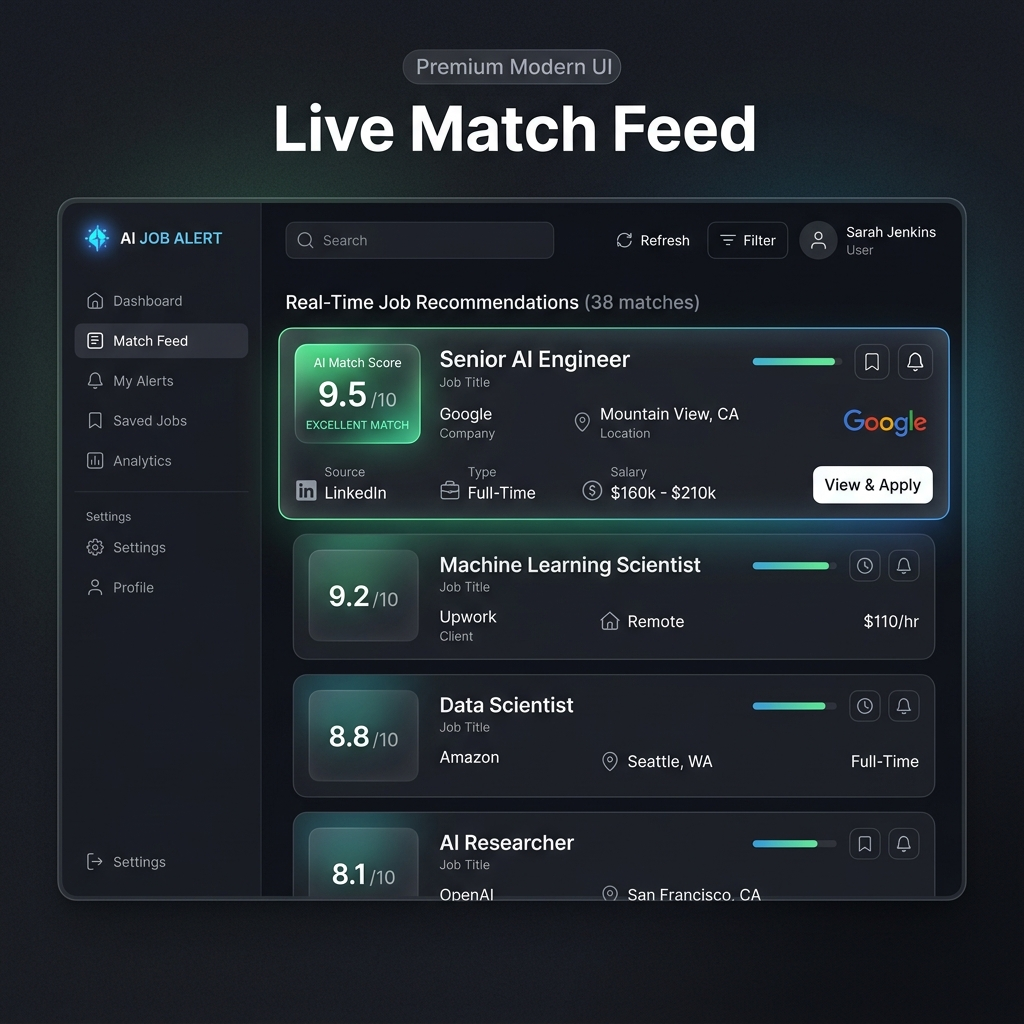
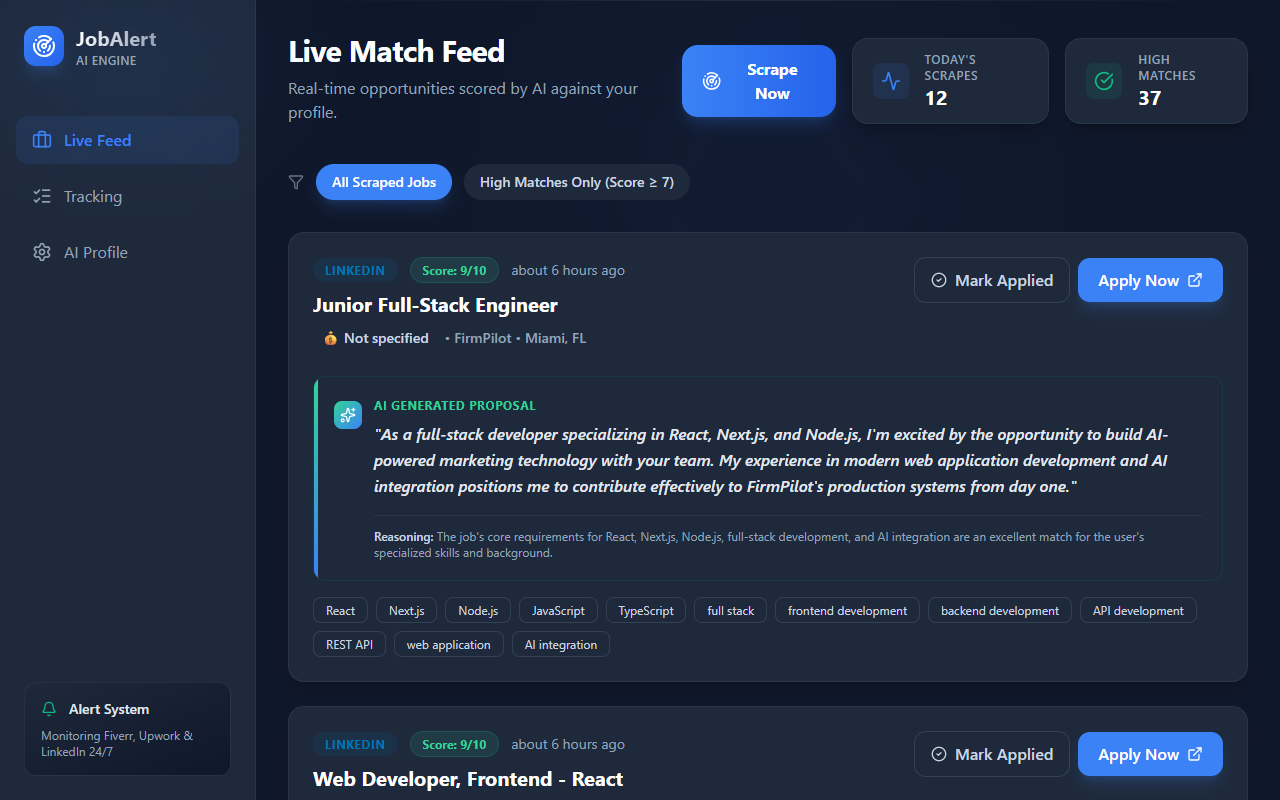
Replace AI mockups with real application screenshots

diff --git a/README.md b/README.md
@@ -15,15 +15,14 @@ An intelligent, full-stack automation system that aggregates freelance job posti
 
 ---
 
-## 📸 System Preview
-
-| 📊 Live Match Feed | 🧠 AI Analysis View |
+| 📊 Live Match Feed | 🚀 Job Tracking |
 | :---: | :---: |
-| ![Dashboard](screenshots/dashboard.png) | ![Analysis](screenshots/analysis.png) |
+| ![Dashboard](screenshots/dashboard.png) | ![Tracking](screenshots/tracking.png) |
 
-| 📧 Instant Email Alerts |
+| ⚙️ AI Profile & Settings |
 | :---: |
-| ![Email](screenshots/email.png) |
+| ![Settings](screenshots/settings.png) |
+
 
 ---
 